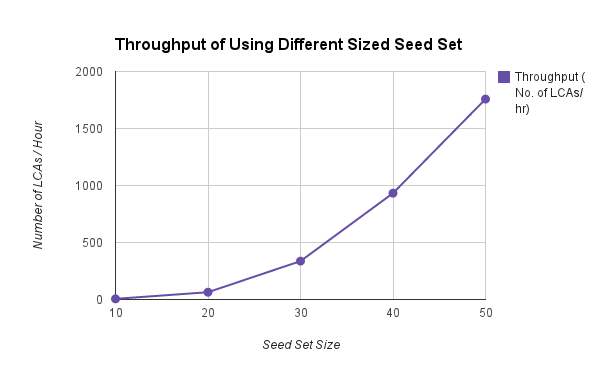
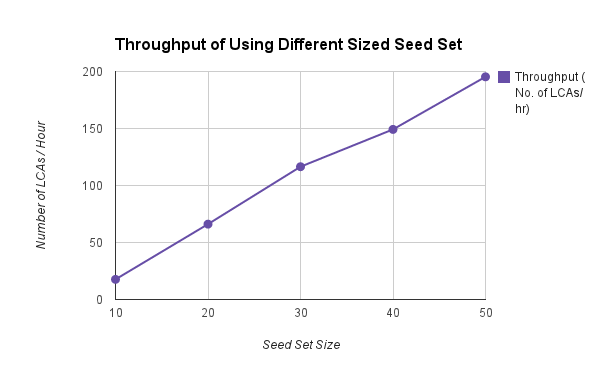
final changes.

diff --git a/problemset3/doc/write_up.tex b/problemset3/doc/write_up.tex
@@ -170,6 +170,18 @@ We measure the throughput and scalability of our implementation, we tried to det
     \label{fig:throughput}
 \end{figure}
 
+\begin{table}[h]
+    \begin{tabular}{|l|l|l|}
+    \hline
+    No. of Seeds  & No. of LCAs & Throughput (LCAs/Hr) \\ \hline
+    10 & 10          & 17.647               \\ \hline
+    20 & 65          & 66.102               \\ \hline
+    30 & 198         & 116.471              \\ \hline
+    40 & 373         & 149.2                \\ \hline
+    50 & 586         & 195.333              \\ \hline
+    \end{tabular}
+\end{table}
+
 
 \section{Analytics Platform Evaluation}
 
